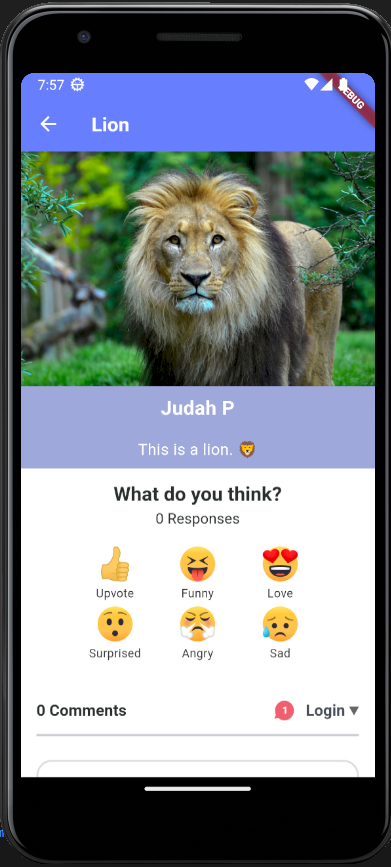
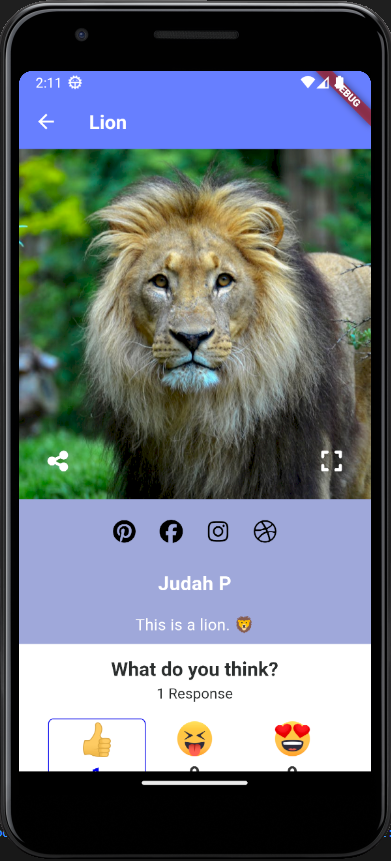
Implemented Share & Fullscreen Buttons
- Closes #7

diff --git a/lib/artwork_detail_page.dart b/lib/artwork_detail_page.dart
@@ -3,13 +3,14 @@ import 'package:artfolio/utils/settings.dart';
 import 'package:artfolio/webview_page.dart';
 import 'package:flutter/material.dart';
 import 'models/disqus_comments.dart';
+import 'package:share/share.dart';
 import 'models/artwork.dart';
 import 'dart:io';
 
 class ArtworkDetailPage extends StatelessWidget {
   final Artwork artwork;
 
-  const ArtworkDetailPage({Key? key, required this.artwork}) : super(key: key);
+  const ArtworkDetailPage({super.key, required this.artwork});
 
   @override
   Widget build(BuildContext context) {
@@ -22,26 +23,77 @@ class ArtworkDetailPage extends StatelessWidget {
       body: SingleChildScrollView(
         child: Column(
           children: [
-            //check for file:// and http(s):// prefixes
-            !artwork.imageUrl.startsWith('http')
-                ? Image.file(
-                    File(artwork.imageUrl),
-                    fit: BoxFit.cover,
-                  )
-                : Image.network(
-                    artwork.imageUrl,
-                    fit: BoxFit.cover,
+            Stack(
+              children: [
+                // Display the artwork image
+                !artwork.imageUrl.startsWith('http')
+                    ? Image.file(
+                        File(artwork.imageUrl),
+                        fit: BoxFit.cover,
+                        height: screenHeight * 0.75,
+                        width: double.infinity,
+                      )
+                    : Image.network(
+                        artwork.imageUrl,
+                        fit: BoxFit.cover,
+                        height: screenHeight * 0.5,
+                        width: double.infinity,
+                      ),
+                // Share button at the bottom left of the image
+                Positioned(
+                  bottom: 16,
+                  left: 16,
+                  child: IconButton(
+                    icon: const Icon(FontAwesomeIcons.shareNodes,
+                        color: Colors.white),
+                    onPressed: () {
+                      Share.share(artwork.imageUrl);
+                    },
                   ),
+                ),
+                // Fullscreen button at the bottom right of the image
+                Positioned(
+                  bottom: 16,
+                  right: 16,
+                  child: IconButton(
+                    icon: const Icon(FontAwesomeIcons.expand,
+                        color: Colors.white),
+                    onPressed: () {
+                      Navigator.push(
+                        context,
+                        MaterialPageRoute(
+                          builder: (context) => Scaffold(
+                            appBar: AppBar(
+                              title: Text(artwork.title),
+                            ),
+                            body: Center(
+                              child: !artwork.imageUrl.startsWith('http')
+                                  ? Image.file(
+                                      File(artwork.imageUrl),
+                                      fit: BoxFit.contain,
+                                    )
+                                  : Image.network(
+                                      artwork.imageUrl,
+                                      fit: BoxFit.contain,
+                                    ),
+                            ),
+                          ),
+                        ),
+                      );
+                    },
+                  ),
+                ),
+              ],
+            ),
             Padding(
               padding: const EdgeInsets.all(8.0),
               child: Row(
                 mainAxisAlignment: MainAxisAlignment.center,
                 children: [
-                  // social media buttons
+                  // Social media buttons
                   IconButton(
                     icon: const Icon(FontAwesomeIcons.pinterest),
                     onPressed: () {
-                      // open pinterest webview
                       Navigator.push(
                         context,
                         MaterialPageRoute(
@@ -56,7 +108,6 @@ class ArtworkDetailPage extends StatelessWidget {
                   IconButton(
                     icon: const Icon(FontAwesomeIcons.facebook),
                     onPressed: () {
-                      // open facebook webview
                       Navigator.push(
                         context,
                         MaterialPageRoute(
@@ -71,7 +122,6 @@ class ArtworkDetailPage extends StatelessWidget {
                   IconButton(
                     icon: const Icon(FontAwesomeIcons.instagram),
                     onPressed: () {
-                      // open instagram webview
                       Navigator.push(
                         context,
                         MaterialPageRoute(
@@ -86,7 +136,6 @@ class ArtworkDetailPage extends StatelessWidget {
                   IconButton(
                     icon: const Icon(FontAwesomeIcons.dribbble),
                     onPressed: () {
-                      // open dribbble webview
                       Navigator.push(
                         context,
                         MaterialPageRoute(
@@ -124,7 +173,7 @@ class ArtworkDetailPage extends StatelessWidget {
                       DisqusComments(
                         disqusShortname: AppStrings.disqusShortname,
                         identifier: '${artwork.id}',
-                        url: '${AppStrings.disqusUrl}/artwork/${artwork.id}',
+                        url: artwork.imageUrl,
                       ),
                     ],
                   ),

diff --git a/lib/utils/settings.dart b/lib/utils/settings.dart
@@ -9,7 +9,6 @@ class AppSettings {
       "username": "admin",
       "password": "admin123",
       "disqusShortname": "artfolio-1",
-      "disqusUrl": "https://github.com/judahpaul16/artfolio",
       "buyCoffeeUrl": "https://paypal.me/judahpaul",
       "pinterestUrl": "https://pinterest.com/",
       "facebookUrl": "https://facebook.com/",
@@ -46,9 +45,6 @@ class AppStrings {
   static String get disqusShortname => AppSettings.settings['disqusShortname'];
   static set disqusShortname(String value) =>
       AppSettings.updateSetting('disqusShortname', value);
-  static String get disqusUrl => AppSettings.settings['disqusUrl'];
-  static set disqusUrl(String value) =>
-      AppSettings.updateSetting('disqusUrl', value);
   static String get buyCoffeeUrl => AppSettings.settings['buyCoffeeUrl'];
   static set buyCoffeeUrl(String value) =>
       AppSettings.updateSetting('buyCoffeeUrl', value);

diff --git a/lib/webview_page.dart b/lib/webview_page.dart
@@ -4,8 +4,7 @@ import 'package:webview_flutter/webview_flutter.dart';
 class WebViewPage extends StatelessWidget {
   final String title;
   final String url;
-  const WebViewPage({Key? key, required this.title, required this.url})
-      : super(key: key);
+  const WebViewPage({super.key, required this.title, required this.url});
 
   @override
   Widget build(BuildContext context) {

diff --git a/lib/models/disqus_comments.dart b/lib/models/disqus_comments.dart
@@ -9,11 +9,11 @@ class DisqusComments extends StatefulWidget {
   final String url;
 
   const DisqusComments({
-    Key? key,
+    super.key,
     required this.disqusShortname,
     required this.identifier,
     required this.url,
-  }) : super(key: key);
+  });
 
   @override
   _DisqusCommentsState createState() => _DisqusCommentsState();

diff --git a/lib/edit_artwork_page.dart b/lib/edit_artwork_page.dart
@@ -6,7 +6,7 @@ import 'models/artwork.dart';
 class EditArtworkPage extends StatefulWidget {
   final Artwork artwork;
 
-  const EditArtworkPage({Key? key, required this.artwork}) : super(key: key);
+  const EditArtworkPage({super.key, required this.artwork});
 
   @override
   EditArtworkPageState createState() => EditArtworkPageState();

diff --git a/lib/profile_page.dart b/lib/profile_page.dart
@@ -3,7 +3,7 @@ import 'package:artfolio/utils/settings.dart';
 import 'package:artfolio/utils/db_helper.dart';
 
 class ProfilePage extends StatefulWidget {
-  const ProfilePage({Key? key}) : super(key: key);
+  const ProfilePage({super.key});
 
   @override
   State<ProfilePage> createState() => _ProfilePageState();

diff --git a/lib/add_artwork_page.dart b/lib/add_artwork_page.dart
@@ -4,7 +4,7 @@ import 'utils/db_helper.dart';
 import 'models/artwork.dart';
 
 class AddArtworkPage extends StatefulWidget {
-  const AddArtworkPage({Key? key}) : super(key: key);
+  const AddArtworkPage({super.key});
 
   @override
   AddArtworkPageState createState() => AddArtworkPageState();

diff --git a/lib/main.dart b/lib/main.dart
@@ -41,7 +41,7 @@ class ArtfolioApp extends StatelessWidget {
 }
 
 class HomePage extends StatefulWidget {
-  const HomePage({Key? key}) : super(key: key);
+  const HomePage({super.key});
 
   @override
   HomePageState createState() => HomePageState();
